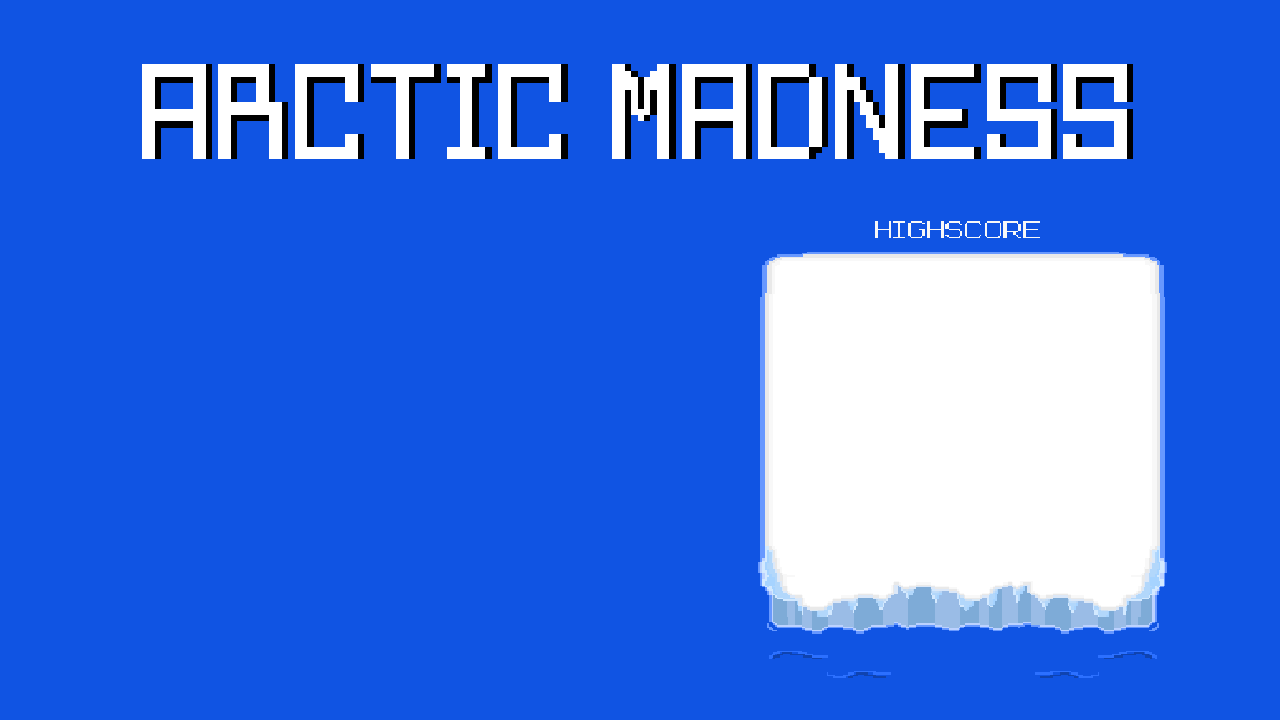
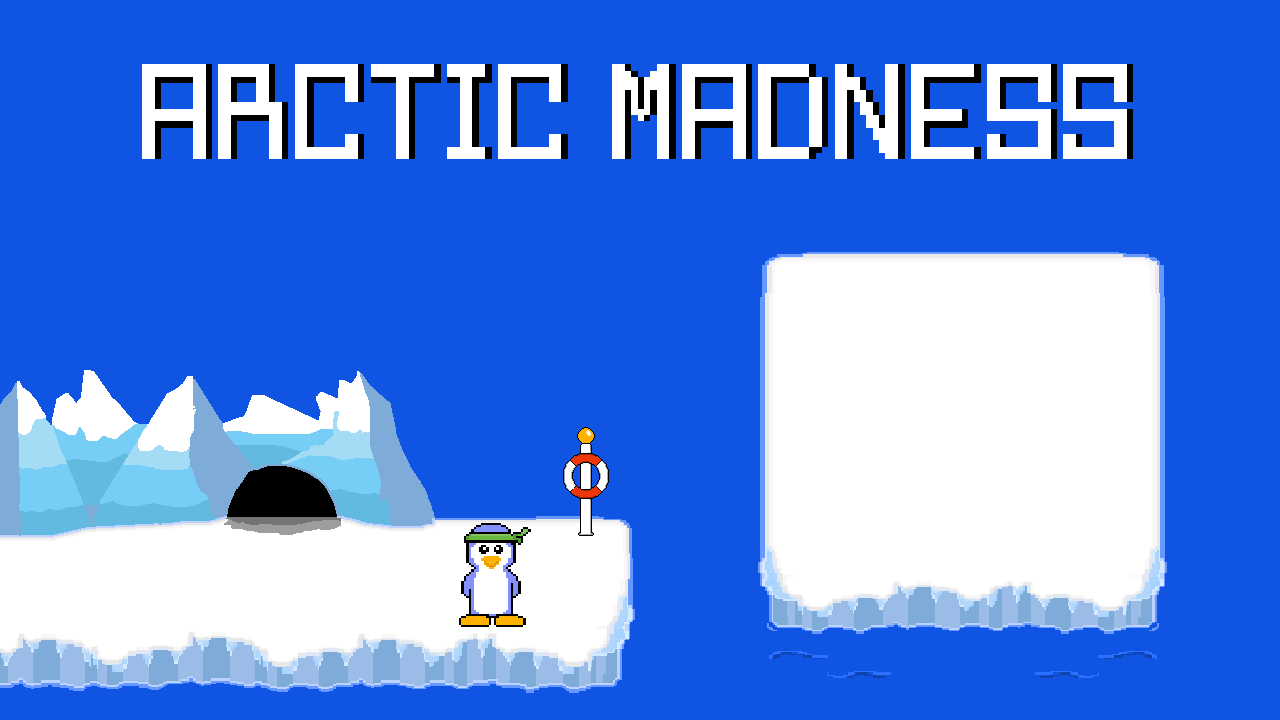
New font, new bg in menu, hidden some graphics in menu for when testing

Changed region(s): [[0.0, 0.5194, 0.5, 0.9778], [0.6875, 0.3056, 0.8125, 0.3361]]

diff --git a/src/scene/menu/Menu.js b/src/scene/menu/Menu.js
@@ -85,23 +85,23 @@ ArcticMadness.scene.Menu.prototype.m_initBackground = function () {
 
 // Method to initialize the controller graphic
 ArcticMadness.scene.Menu.prototype.m_initController = function () {
-    this.controllerGraphic = new rune.display.Graphic(
-        0,
-        0,
-        400,
-        400, "controller"
-    );
-    this.controllerGraphic.center = this.application.screen.center;
-    this.text = new rune.text.BitmapField("JKLMNOPQRSTUVXYZ0123456789");
-    this.text.autoSize = true;
-    this.text.x = 200;
-    this.text.y = 200;
-    // this.text.x = this.controllerGraphic.x + 100;
-    // this.text.y = this.controllerGraphic.y + 50;
-    this.text.scaleX = 2;
-    this.text.scaleY = 2;
-    this.stage.addChild(this.text);
-    this.stage.addChild(this.controllerGraphic);
+    // this.controllerGraphic = new rune.display.Graphic(
+    //     0,
+    //     0,
+    //     400,
+    //     400, "controller"
+    // );
+    // this.controllerGraphic.center = this.application.screen.center;
+    // this.text = new rune.text.BitmapField("JKLMNOPQRSTUVXYZ0123456789");
+    // this.text.autoSize = true;
+    // this.text.x = 200;
+    // this.text.y = 200;
+    // // this.text.x = this.controllerGraphic.x + 100;
+    // // this.text.y = this.controllerGraphic.y + 50;
+    // this.text.scaleX = 2;
+    // this.text.scaleY = 2;
+    // this.stage.addChild(this.text);
+    // this.stage.addChild(this.controllerGraphic);
 }
 
 //Method to initialize the menu
@@ -111,20 +111,23 @@ ArcticMadness.scene.Menu.prototype.m_initMenu = function () {
     this.menu.add("Multiplayer");
     this.menu.add("Highscore");
     this.menu.add("How to play");
-    this.menu.x = 100;
-    this.menu.y = 300;
+    this.menu.x = 200;
+    this.menu.y = 230;
+    this.menu.scaleX = 3;
+    this.menu.scaleY = 3;
     this.menu.onSelect(this.selectOption, this);
     this.stage.addChild(this.menu);
 }
 
 ArcticMadness.scene.Menu.prototype.m_highscoreList = function () {
-    this.highscoreBg = new rune.display.Graphic(0, 0, 300, 400, "highscore_bg");
-    this.highscoreBg.x = 900;
-    this.highscoreBg.y = 200;
-    this.stage.addChild(this.highscoreBg);
-    this.highscoreText = new rune.text.BitmapField("Highscore");
-    this.highscoreText.x = 1020;
-    this.highscoreText.y = 250;
+    this.playerHighscore = "1.mathias 1337";
+    this.highscoreText = new rune.text.BitmapField(this.playerHighscore, "thefont");
+    this.highscoreText.autoSize = true;
+    this.highscoreText.scaleX = 2;
+    this.highscoreText.scaleY = 2;
+    this.highscoreText.x = 780;
+    this.highscoreText.y = 300;
+    
     this.stage.addChild(this.highscoreText);
 }
 

diff --git a/src/data/resource/Requests.js b/src/data/resource/Requests.js
@@ -53,7 +53,6 @@ ArcticMadness.data.Requests.prototype.m_construct = function() {
 	this.add("font2", "./../asset/font2.png");
 	this.add("gun_directions2", "./../asset/gun_directions2.png");
 	this.add("help", "./../asset/help.wav");
-	this.add("highscore_bg", "./../asset/highscore_bg.png");
 	this.add("map", "./../asset/map.json");
 	this.add("map_testcracks", "./../asset/map_testcracks.png");
 	this.add("map_texture", "./../asset/map_texture.png");
@@ -61,4 +60,5 @@ ArcticMadness.data.Requests.prototype.m_construct = function() {
 	this.add("menu_bg", "./../asset/menu_bg.png");
 	this.add("repaircomplete", "./../asset/repaircomplete.wav");
 	this.add("shoot", "./../asset/shoot.wav");
+	this.add("thefont", "./../asset/thefont.png");
 };
